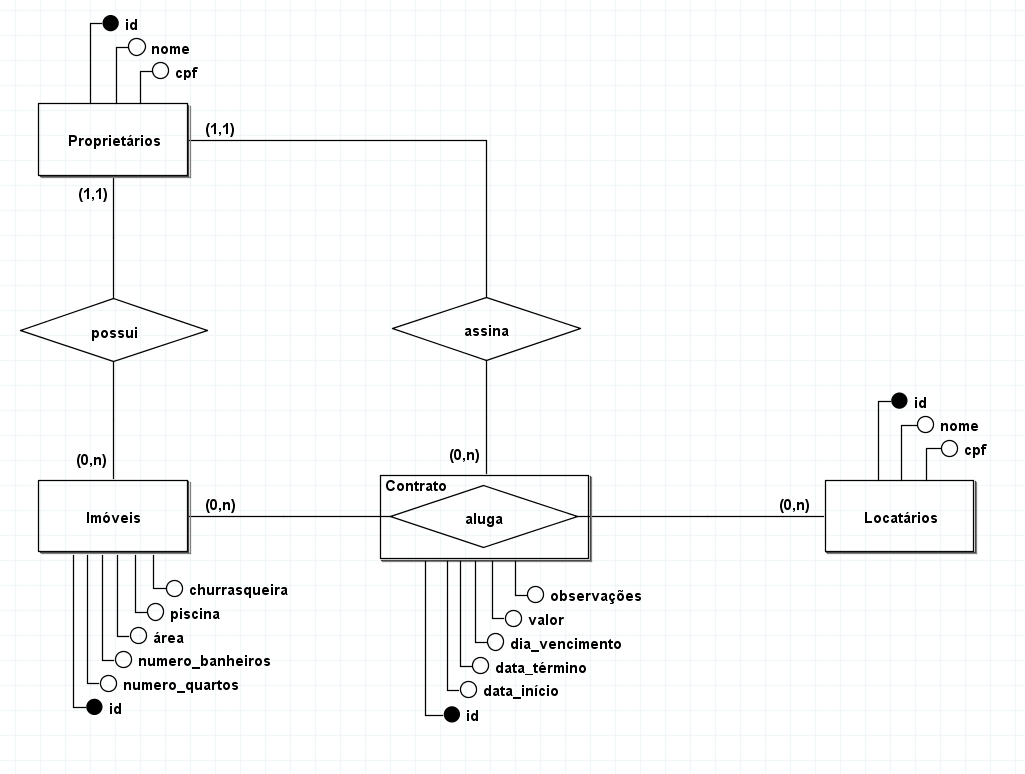
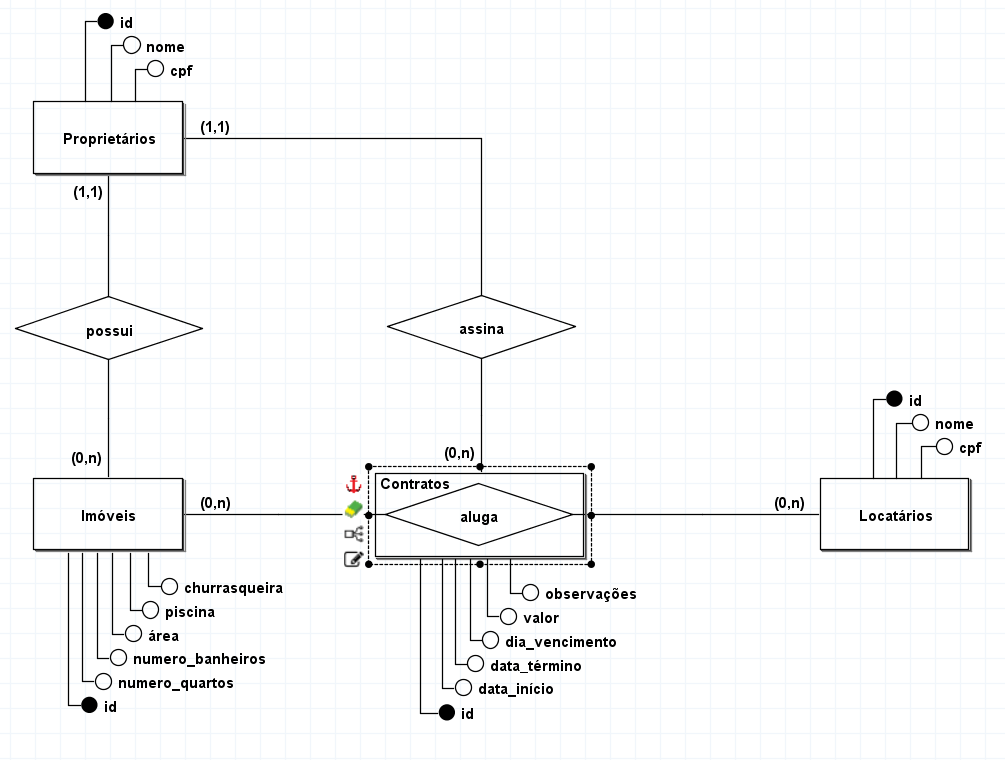
Correção ex1

Changed region(s): [[0.0, 0.3934, 0.9871, 0.9684], [0.0308, 0.0, 0.2468, 0.3934], [0.4627, 0.1816, 0.4935, 0.3934]]

diff --git a/Aula 49/Mer1.MD b/Aula 49/Mer1.MD
@@ -1,0 +1,56 @@
+<h2>1º Identificando as entidades:</h2>
+<strong>Imóveis</strong><br/>
+<strong>Proprietários</strong><br/>
+<strong>Contratos (Entidade Associativa)</strong><br/>
+<strong>Locatários</strong><br/>
+
+<h2>2º Identificando as relações:</h2>
+<strong>Proprietários x Imóveis</strong><br/>
+<ul>
+  <li>Um proprietário possui vários imóveis</li>
+  <li>Um imóvel possui um proprietário</li>
+</ul>
+
+<strong>Imóveis x Locatários</strong>
+<ul>
+  <li>Um imóvel é alugado por vários locatários</li>
+  <li>Um locatários aluga vários imóveis</li>
+</ul>
+
+<strong>Proprietários x Contratos</strong>
+<ul>
+  <li>Um proprietário assina vários contratos</li>
+  <li>Um contrato é assinado por vários proprietários</li>
+</ul>
+
+<h2>3º Identificando os atributos:</h2>
+<strong>Imóveis</strong>
+<ul>
+  <li>id</li>
+  <li>número_quartos</li>
+  <li>número_banheiros</li>
+  <li>área</li>
+  <li>piscina</li>
+  <li>churrasqueira</li>
+  <li>bairro</li>
+</ul>
+
+<strong>Proprietários</strong>
+<li>id</li>
+<li>nome</li>
+<li>cpf</li>
+<li>telefone</li>
+<li>endereço (rua, número, cidade, estado)</li>
+
+<strong>Contratos</strong>
+<li>id</li>
+<li>data_início</li>
+<li>data_término</li>
+<li>dia_vencimento</li>
+<li>valor</li>
+<li>observações</li>
+
+<strong>Locatários</strong>
+<li>id</li>
+<li>nome</li>
+<li>cpf</li>
